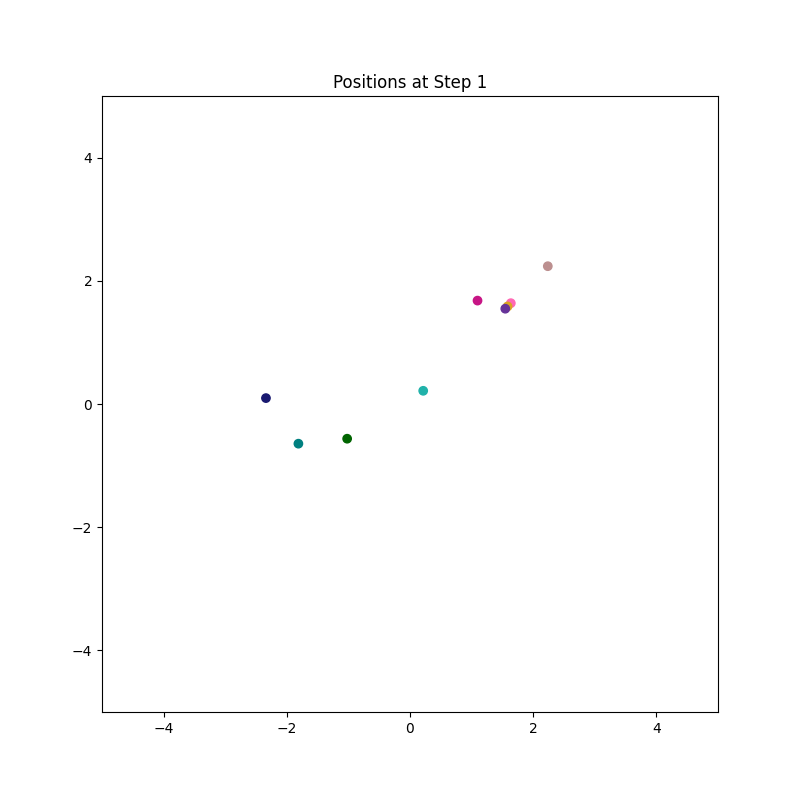
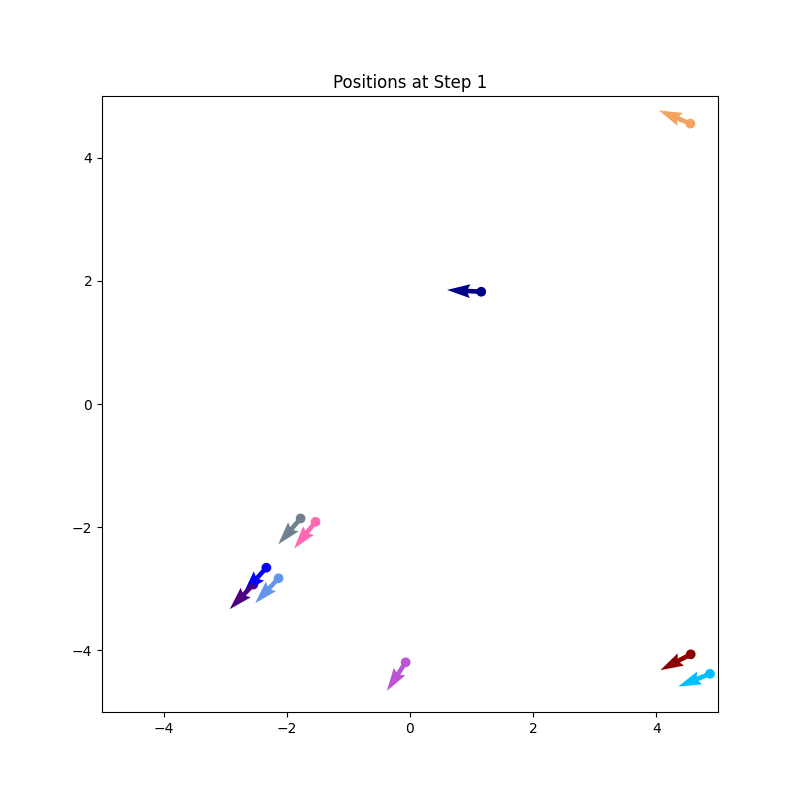
added arrows to plot

diff --git a/Code/vicsek.py b/Code/vicsek.py
@@ -117,12 +117,14 @@ class Vicsek_continous:
 
     def plot(self, ax):
         ax.scatter([p.x for p in self.particles], [p.y for p in self.particles], color=[color for color in self.colors])
+        ax.quiver([p.x for p in self.particles], [p.y for p in self.particles], 
+                  [np.cos(p.orientation) for p in self.particles], [np.sin(p.orientation) for p in self.particles],
+                  color=[color for color in self.colors])
         ax.set_xlim(-self.L / 2, self.L / 2)
         ax.set_ylim(-self.L / 2, self.L / 2)
         ax.set_aspect('equal')
 
-# Exemple d'utilisation
-N = 9
+N = 10
 R = 1.0
 L = 10.0
 v0 = 1.0
@@ -134,19 +136,16 @@ noise = 0.1
 
 vicsek_model = Vicsek_continous(N, R, L, v0, beta, radius, T, dt, noise)
 
-#Plot initial positions and save the figure
+#Plots initial positions and save the figure
 fig, ax = plt.subplots(figsize=(8, 8))
 vicsek_model.plot(ax)
 plt.title("Initial Positions")
 plt.savefig("vicsek_initial_positions.png")
 plt.close()
-f = 0
-for particle in vicsek_model.particles:
-    print(f"x{f} = {particle.x}")
-    print(f"y{f} = {particle.y}")
-    f+=1
+polar = vicsek_model.polar_order_parameter()
+print(f"polar parameter = {polar}")
 
-#Run the simulation and plot at intervals
+#Runs the simulation and plot at intervals
 num_steps = 2
 for step in range(num_steps):
     start_time = time.time()
